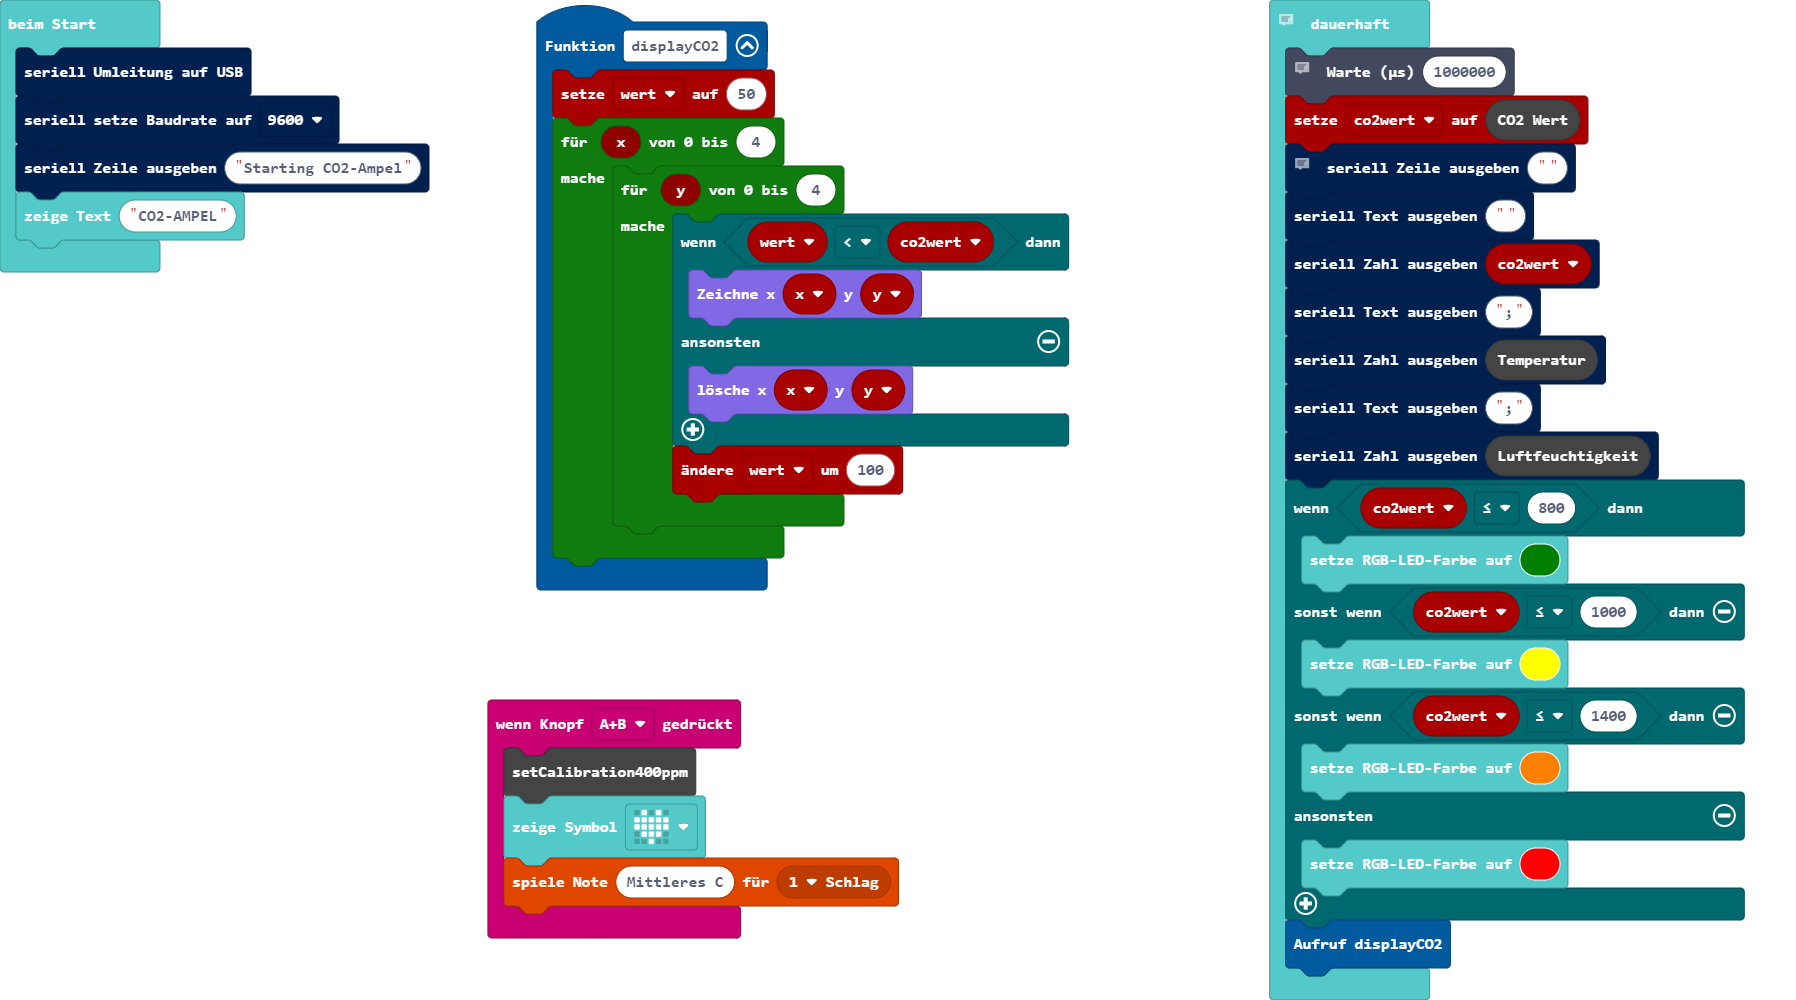
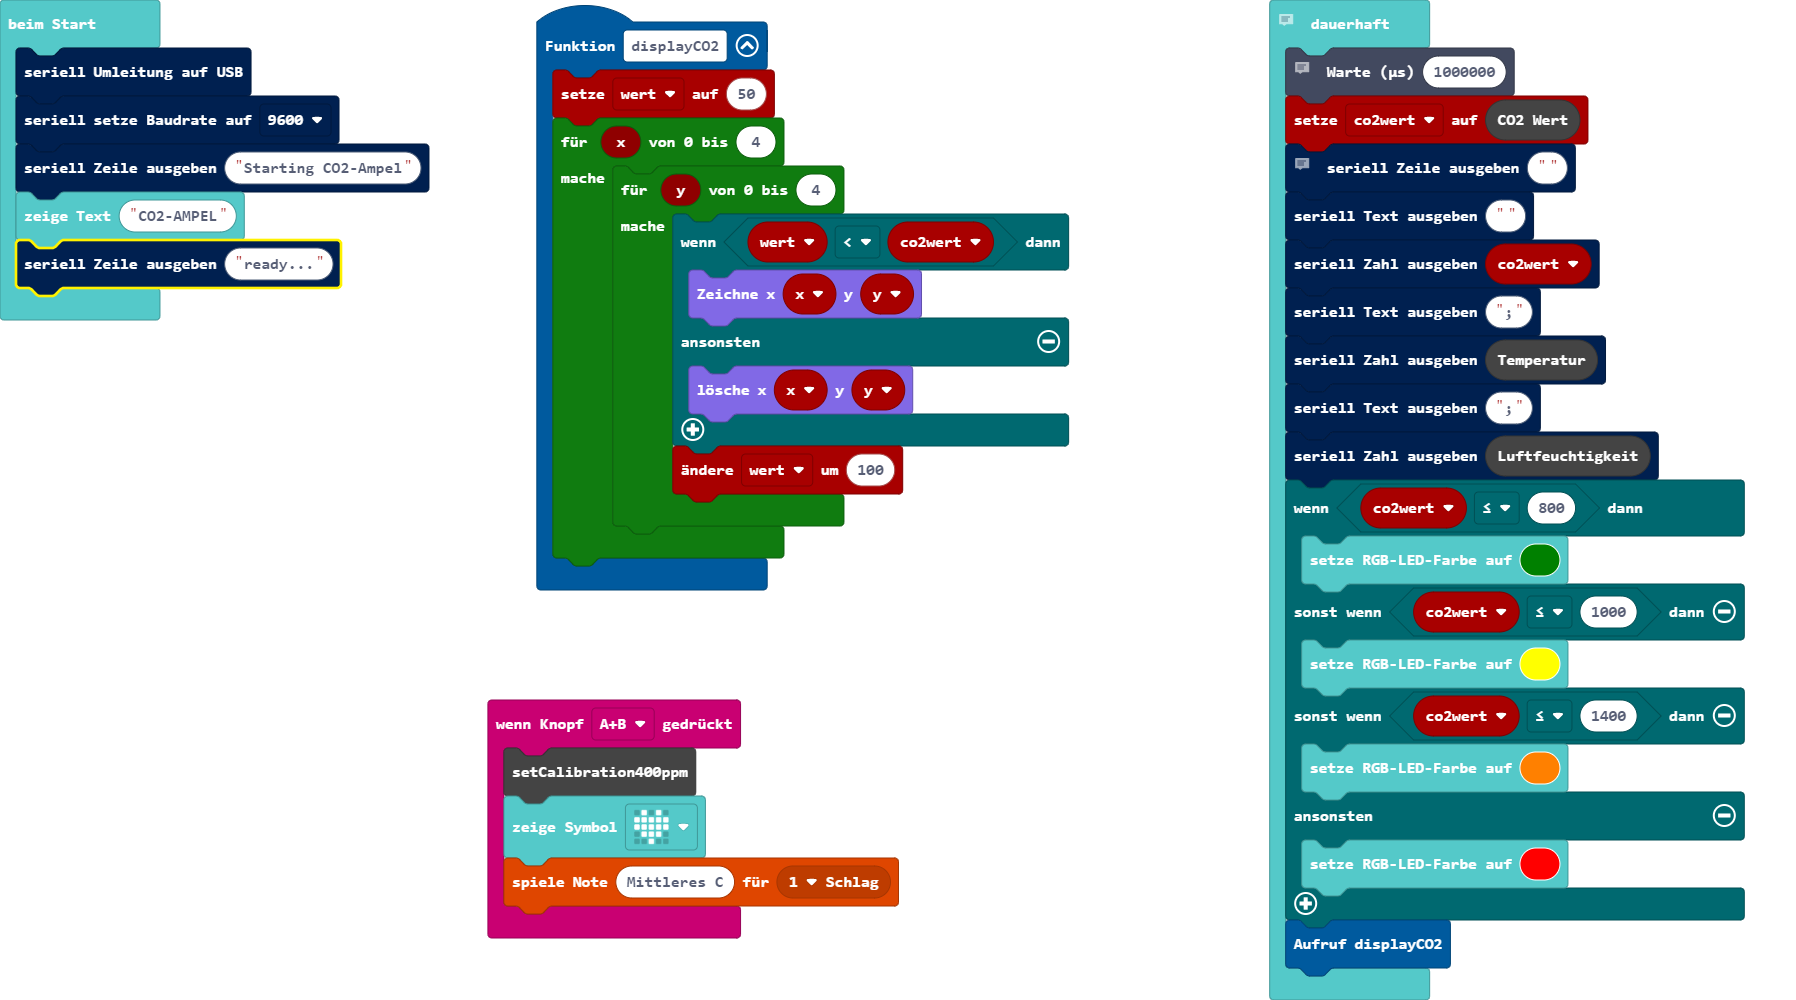
added version

Changed region(s): [[0.0, 0.217, 0.2183, 0.341]]

diff --git a/main.ts b/main.ts
@@ -1,7 +1,7 @@
 input.onButtonPressed(Button.AB, function () {
     SCD30.setCalibration400ppm()
     basic.showIcon(IconNames.Heart)
-    music.playTone(262, music.beat(BeatFraction.Whole))
+    basic.pause(1000)
 })
 function displayCO2 () {
     wert = 50
@@ -21,14 +21,18 @@ let wert = 0
 serial.redirectToUSB()
 serial.setBaudRate(BaudRate.BaudRate9600)
 serial.writeLine("Starting CO2-Ampel")
-basic.showString("CO2-AMPEL")
+basic.showString("CO2-AMPEL V1.0")
+serial.writeLine("SCD30 Version: "+SCD30.getVersion())
+serial.writeLine("calibration: "+SCD30.getCalibration())
+serial.writeLine("press A+B together to set calibration to 400ppm")
+serial.writeLine("ready...")
 // Protokollbeschreibung des Sensors
 // https://www.sensirion.com/fileadmin/user_upload/customers/sensirion/Dokumente/9.5_CO2/Sensirion_CO2_Sensors_SCD30_Interface_Description.pdf
 // CO2 Bewertung
 // https://www.umweltbundesamt.de/sites/default/files/medien/pdfs/kohlendioxid_2008.pdf
 basic.forever(function () {
-    // warte eine Sekunde
-    control.waitMicros(1000000)
+    // warte zwei Sekunden
+    basic.pause(2000)
     co2wert = SCD30.readCO2()
     // co2wert = scd30.lese_CO2_Wert()()
     serial.writeLine("")
